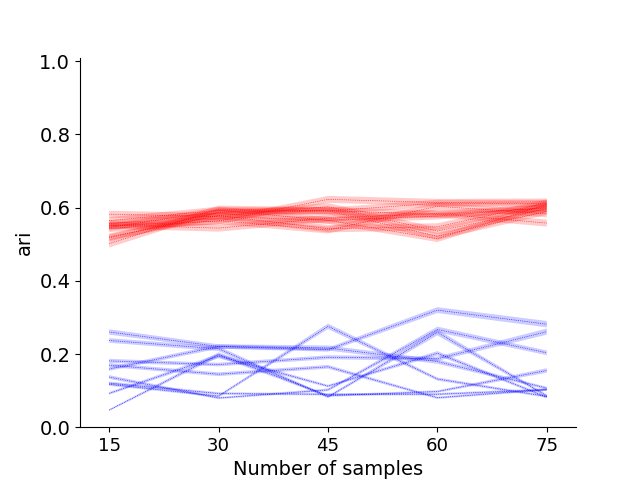
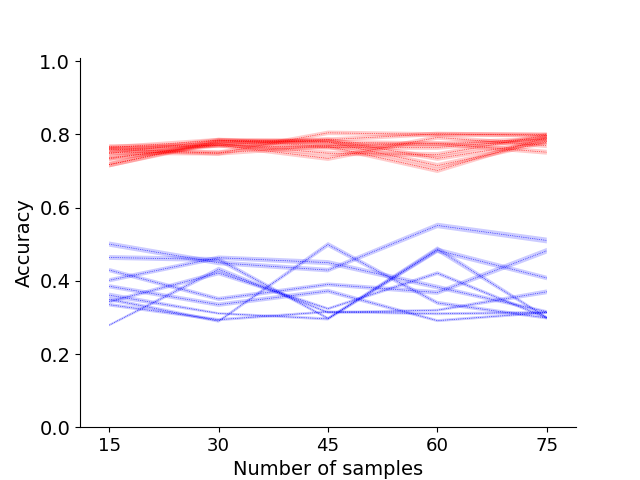
Fig2 edit

Changed region(s): [[0.1562, 0.4062, 0.875, 0.8438], [0.1562, 0.25, 0.875, 0.375], [0.0, 0.4062, 0.0625, 0.5938]]

diff --git a/figs/fig2bs/line_acc_class.py b/figs/fig2bs/line_acc_class.py
@@ -12,13 +12,13 @@ ax.spines['top'].set_visible(False)
 ax.spines['right'].set_visible(False)
 #ax.set_aspect(15)
 
-k = 'ari'
+k = 'acc'
 
 for key, group in df.groupby('repeat'):
 
     group.sort_values('class', inplace=True)
     print(key, group)
-    ax.plot(group['class'], group[k], color='red', linewidth=0.5, linestyle=':') 
+    ax.plot(group['class'], group[k], color='red', linewidth=0.7, linestyle=':') 
     ax.fill_between(group['class'], group[k]-group[k +'_std'], group[k]+group[k+'_std'], facecolor='red', alpha=0.2)
 
 
@@ -26,12 +26,12 @@ for key, group in df2.groupby('repeat'):
 
     group.sort_values('class', inplace=True)
     print(key, group)
-    ax.plot(group['class'], group[k], color='blue', linewidth=0.5, linestyle=':') 
+    ax.plot(group['class'], group[k], color='blue', linewidth=0.7, linestyle=':') 
     ax.fill_between(group['class'], group[k]-group[k+'_std'], group[k]+group[k+'_std'], facecolor='blue', alpha=0.2)
 
 
-plt.xlabel('Number of class')
-plt.ylabel(k)
+plt.xlabel('Number of classes')
+plt.ylabel('Accuracy')
 
 plt.axis([4,26,0.0,1.01])
-plt.savefig("acc_line.png")
+plt.savefig("acc_line_class.png")

diff --git a/figs/fig2bs/line_acc_sample.py b/figs/fig2bs/line_acc_sample.py
@@ -12,7 +12,7 @@ ax.spines['top'].set_visible(False)
 ax.spines['right'].set_visible(False)
 #ax.set_aspect(40)
 
-k = 'ari'
+k = 'acc'
 
 for key, group in df.groupby('repeat'):
 
@@ -31,7 +31,7 @@ for key, group in df2.groupby('repeat'):
 
 
 plt.xlabel('Number of samples')
-plt.ylabel(k)
+plt.ylabel('Accuracy')
 ax.set_xticks([15,30,45,60,75])
 ax.set_xticklabels(('15', '30', '45', '60', '75'), fontsize=13)
 
